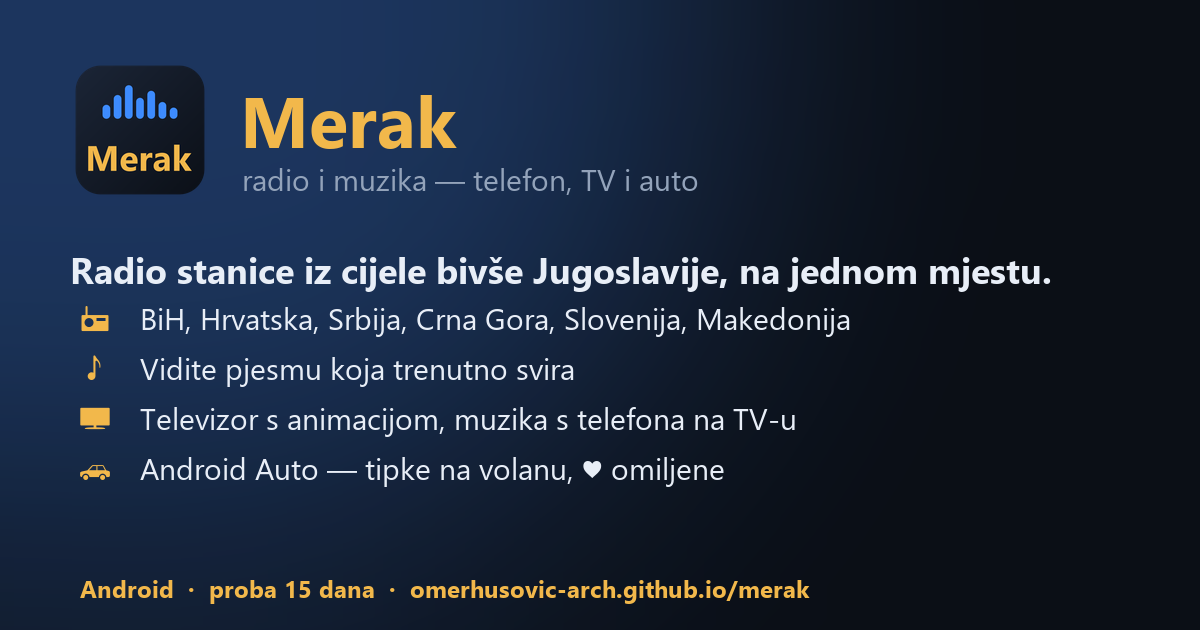
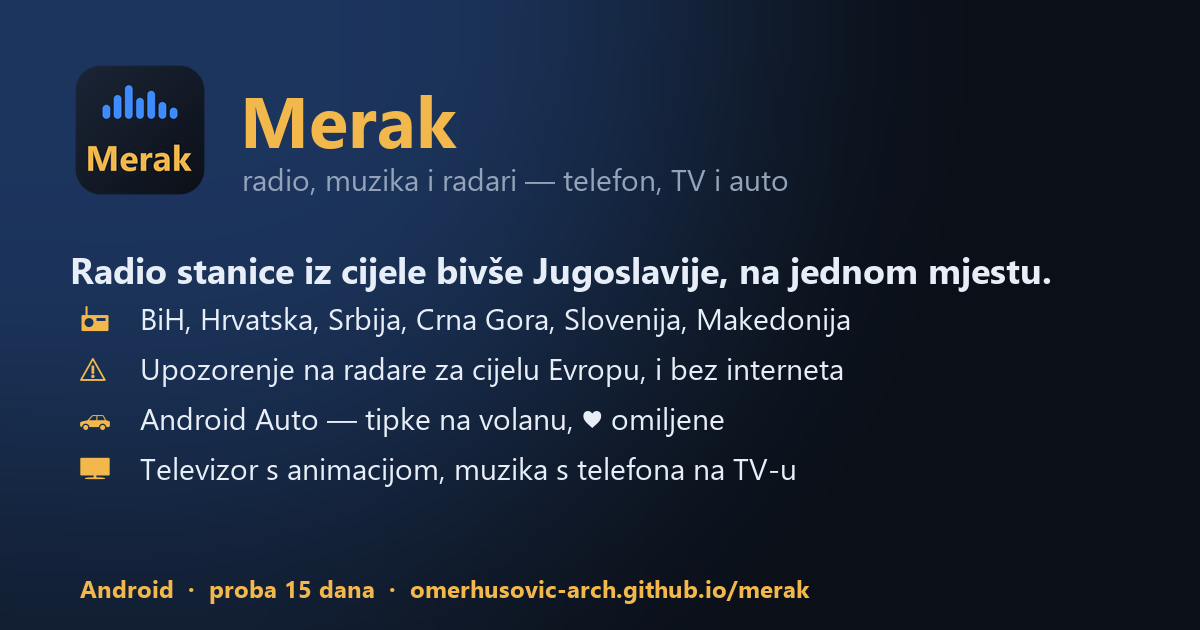
Opisi za Google i slike za dijeljenje (Open Graph, JSON-LD)

diff --git a/index.html b/index.html
@@ -3,11 +3,25 @@
 <head>
 <meta charset="utf-8">
 <meta name="viewport" content="width=device-width, initial-scale=1">
-<title>Merak — radio i muzika za telefon, TV i auto</title>
-<meta name="description" content="Merak: Ex-YU radio stanice, besplatna muzika i vaša muzika — na telefonu, Android TV-u i u autu (Android Auto). Proba 15 dana besplatno.">
-<link rel="icon" href="ikona.png">
-<meta property="og:image" content="https://omerhusovic-arch.github.io/merak/reklama-1.png">
+<title>Merak — Ex-YU radio, muzika i upozorenje na radare (telefon, TV, Android Auto)</title>
+<meta name="description" content="Merak: radio stanice iz BiH, Hrvatske, Srbije i regiona, besplatna muzika i vaša muzika — na telefonu, Android TV-u i u autu (Android Auto). Upozorenje na radare za cijelu Evropu, glasom i bez interneta. Proba 15 dana.">
+<!-- seo:pocetak -->
+<link rel="canonical" href="https://omerhusovic-arch.github.io/merak/">
+<meta property="og:type" content="website">
+<meta property="og:locale" content="bs_BA">
+<meta property="og:site_name" content="Merak">
+<meta property="og:title" content="Merak — Ex-YU radio, muzika i upozorenje na radare (telefon, TV, Android Auto)">
+<meta property="og:description" content="Merak: radio stanice iz BiH, Hrvatske, Srbije i regiona, besplatna muzika i vaša muzika — na telefonu, Android TV-u i u autu (Android Auto). Upozorenje na radare za cijelu Evropu, glasom i bez interneta. Proba 15 dana.">
 <meta property="og:url" content="https://omerhusovic-arch.github.io/merak/">
+<meta property="og:image" content="https://omerhusovic-arch.github.io/merak/reklama-1.png">
+<meta property="og:image:width" content="1200">
+<meta property="og:image:height" content="630">
+<meta property="og:image:alt" content="Merak">
+<meta name="twitter:card" content="summary_large_image">
+<meta name="twitter:image" content="https://omerhusovic-arch.github.io/merak/reklama-1.png">
+<script type="application/ld+json">{"@context": "https://schema.org", "@type": "SoftwareApplication", "name": "Merak", "url": "https://omerhusovic-arch.github.io/merak/", "description": "Merak: radio stanice iz BiH, Hrvatske, Srbije i regiona, besplatna muzika i vaša muzika — na telefonu, Android TV-u i u autu (Android Auto). Upozorenje na radare za cijelu Evropu, glasom i bez interneta. Proba 15 dana.", "applicationCategory": "MultimediaApplication", "operatingSystem": "Android", "inLanguage": "bs", "image": "https://omerhusovic-arch.github.io/merak/ikona.png", "screenshot": "https://omerhusovic-arch.github.io/merak/reklama-1.png", "downloadUrl": "https://github.com/omerhusovic-arch/merak/releases/latest/download/Merak.apk", "author": {"@type": "Person", "name": "Omer Husović"}}</script>
+<!-- seo:kraj -->
+<link rel="icon" href="ikona.png">
 <style>
   :root { --poz:#0B0F16; --panel:#141C28; --panel2:#1C2638; --tekst:#E8EEF7; --sporedni:#8A97AB; --zlatna:#F2B84B; --plava:#3D8BFF; }
   * { box-sizing: border-box; }
